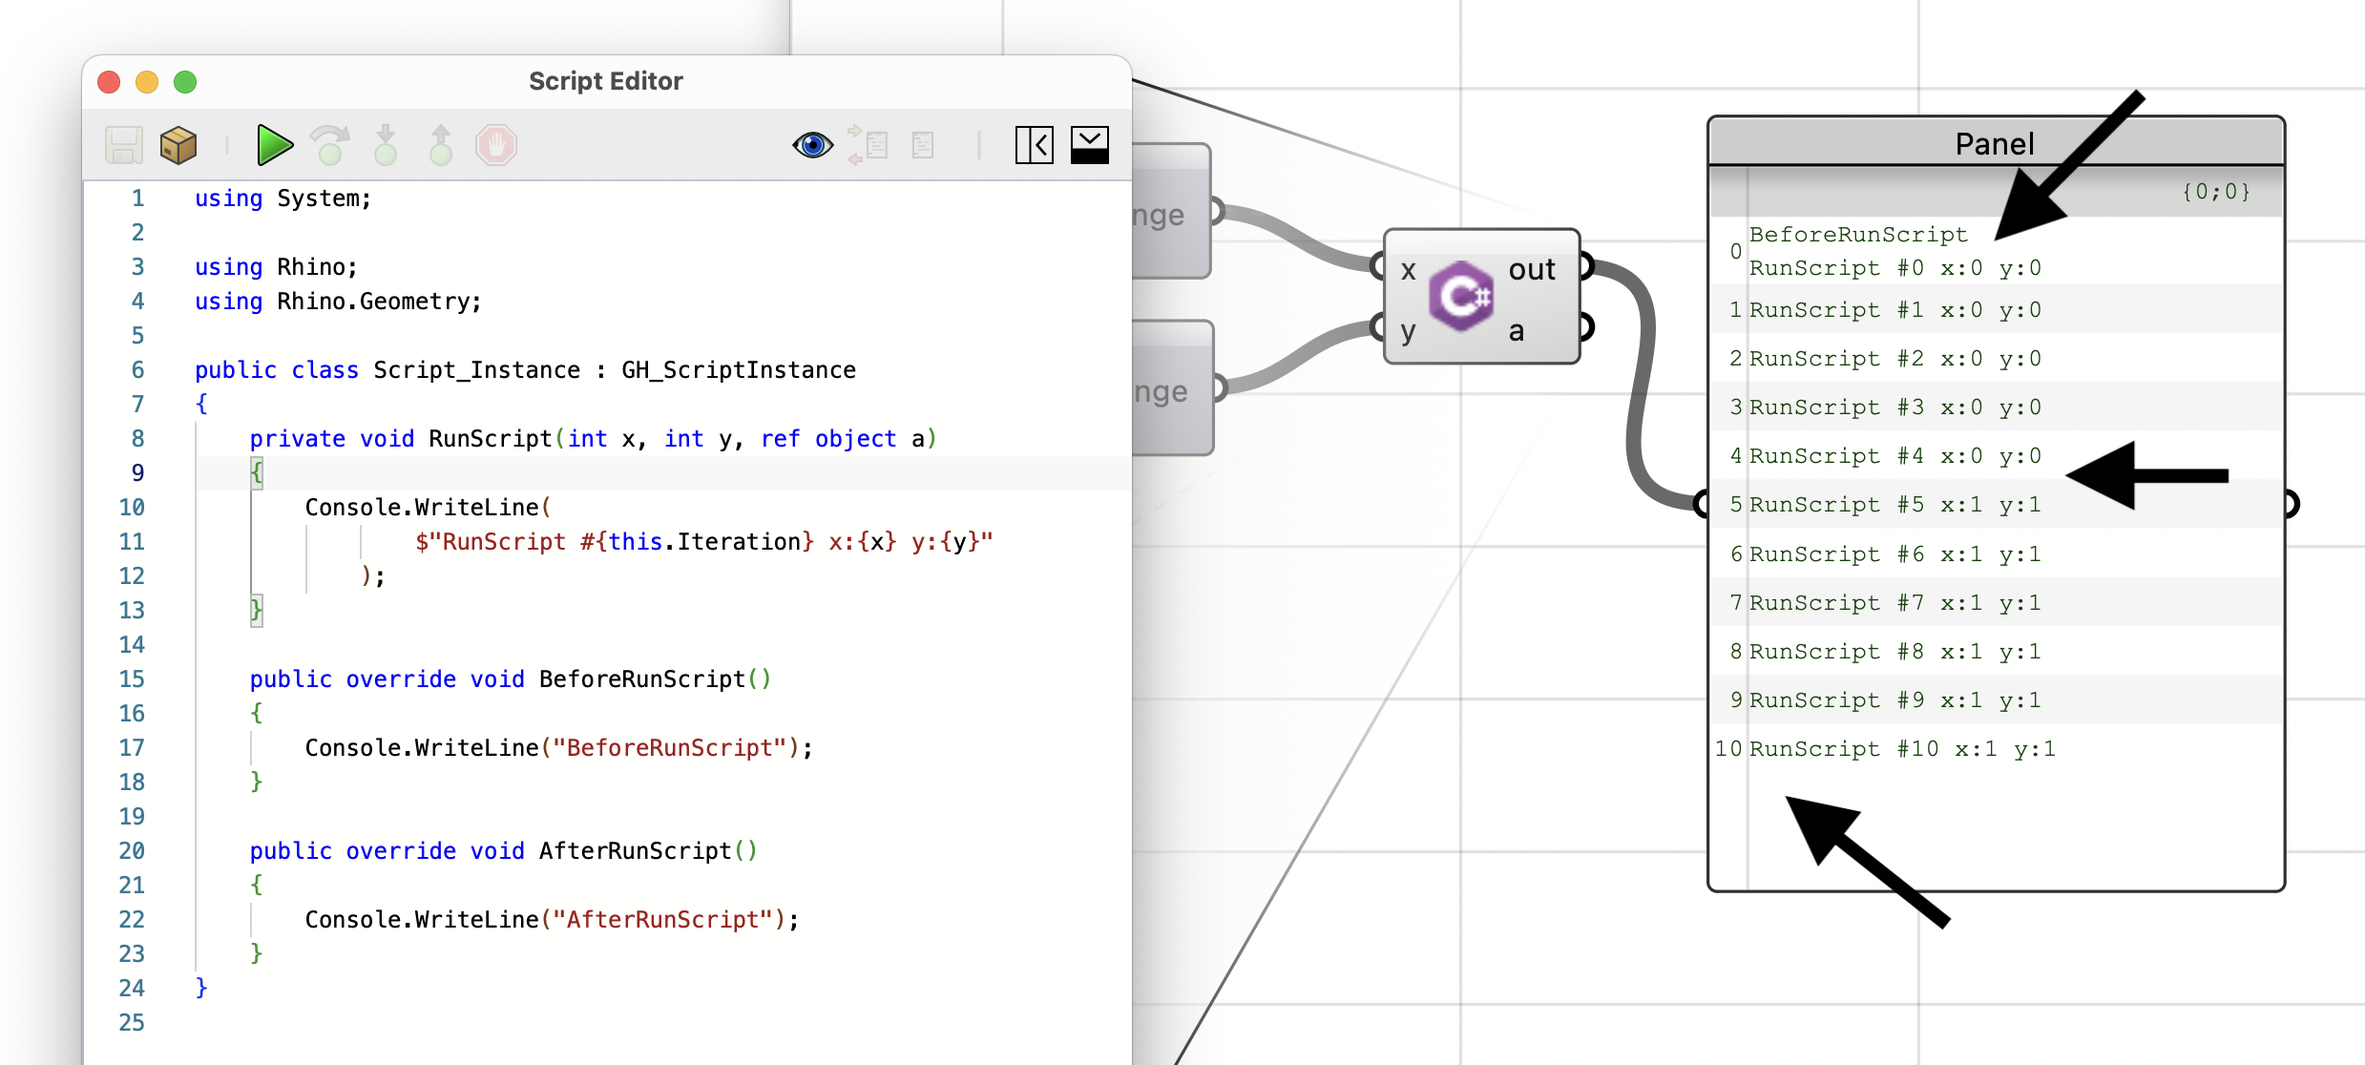
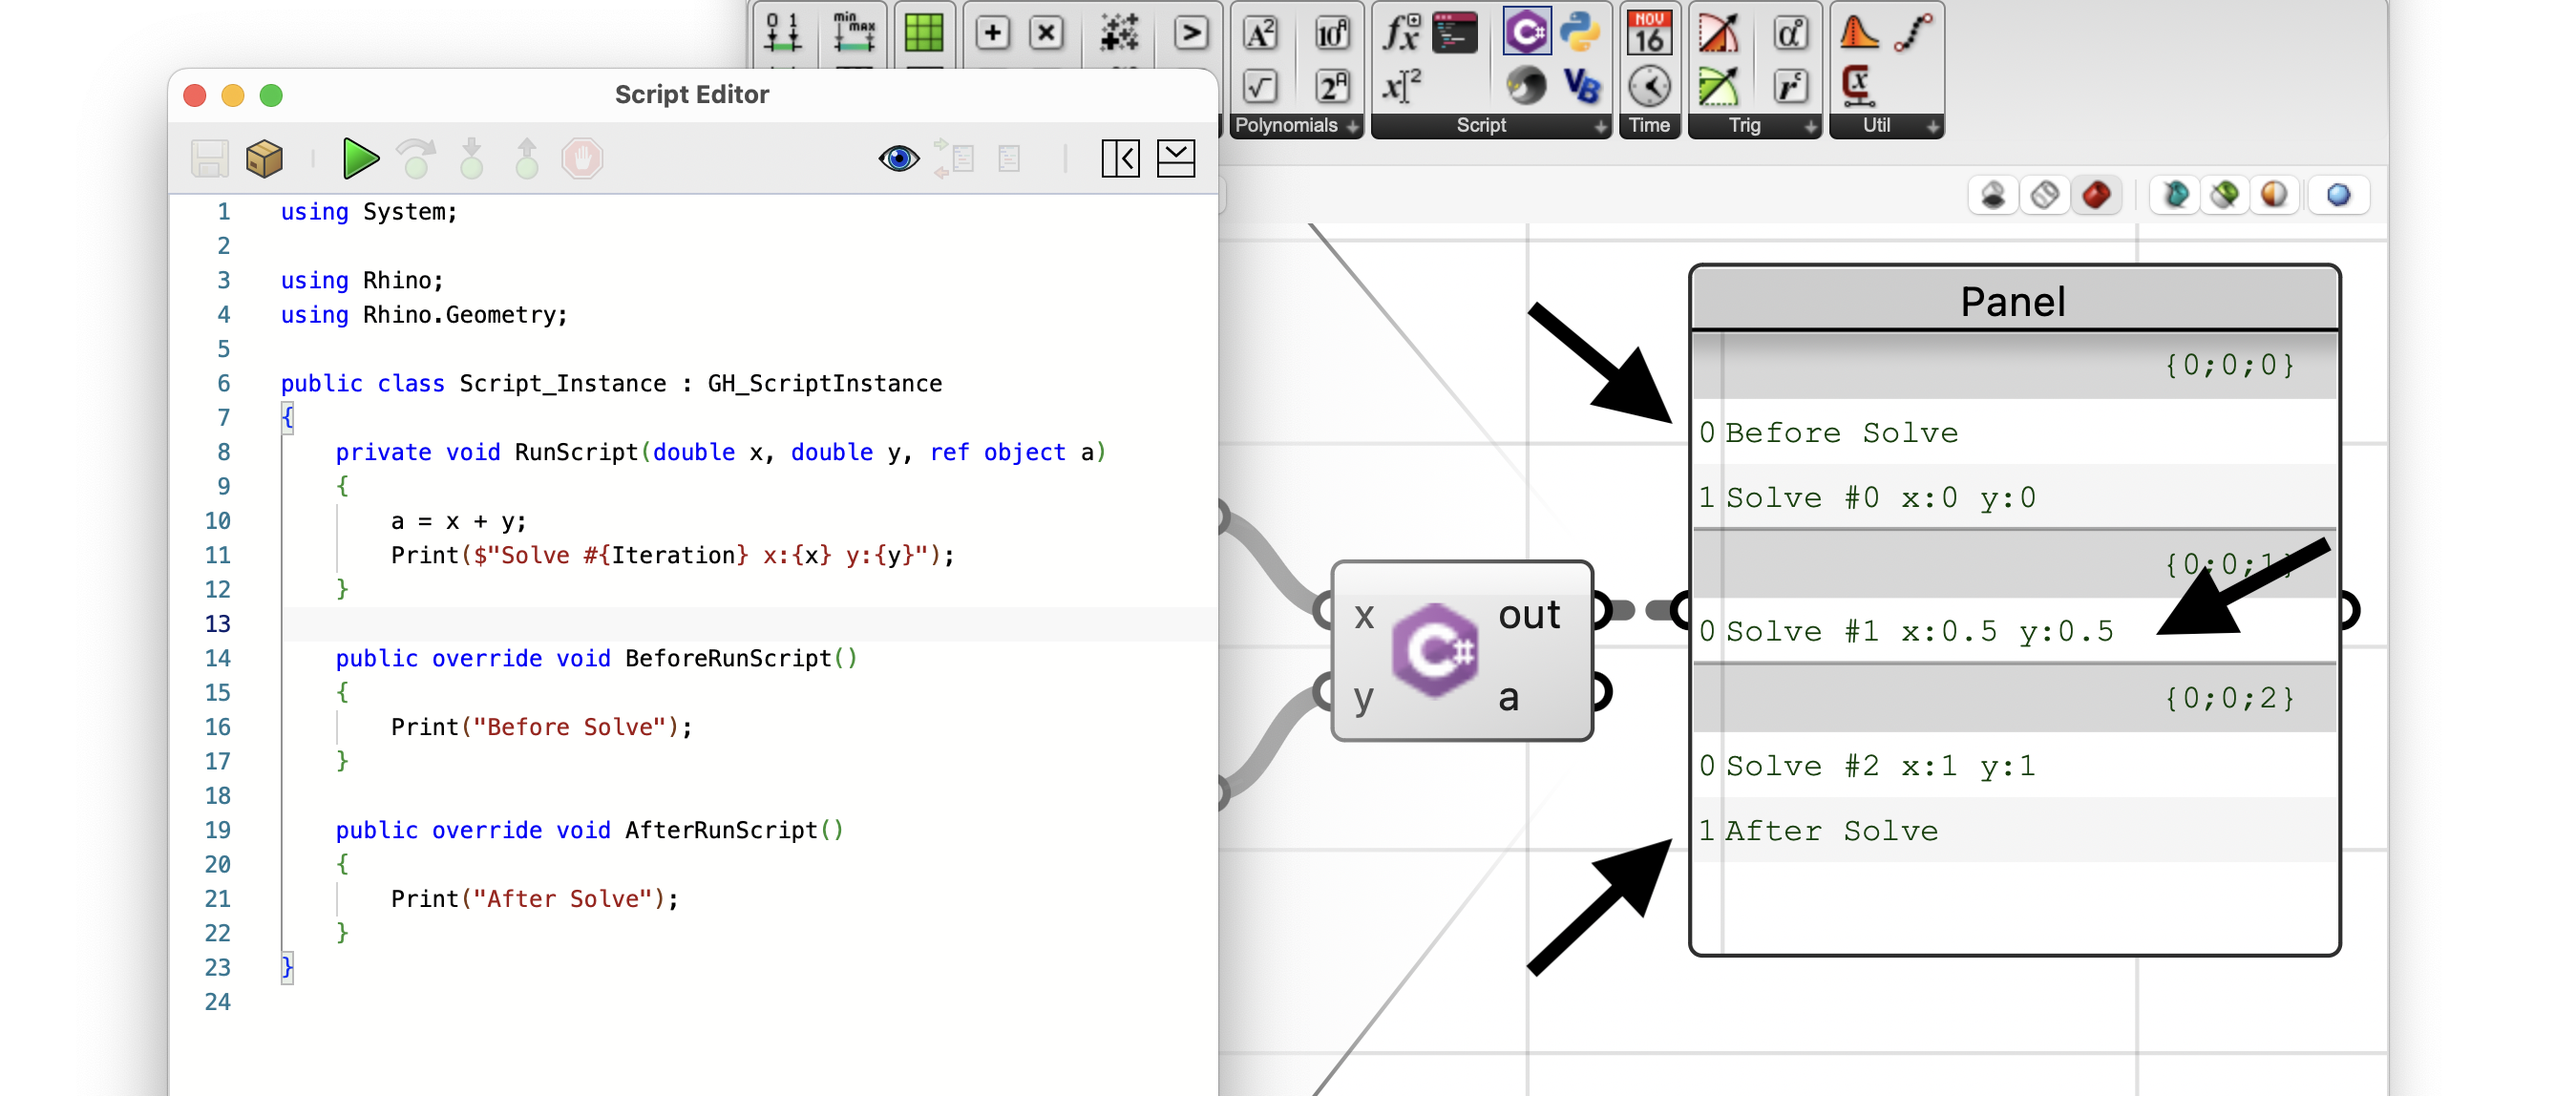
working on C# component guide

diff --git a/content/en/guides/scripting/scripting-gh-csharp/index.md b/content/en/guides/scripting/scripting-gh-csharp/index.md
@@ -59,16 +59,35 @@ Now we can double-click on the component to open a script editor. Note that the 
 
 ### Component Options
 
-At any time, you can right-click on a script component to access a few options that would change how the component behaves. We will discuss all these options in detail below.
+At any time, you can right-click on a script component to access a few options that would change how the component behaves. You know a couple of them that are common with other Grasshopper components like **Preview**, **Enable**, and **Bake**. We will discuss all the options that are specific to this script component in detail below:
 
-![](04.png)
+![](04-a.png)
 
-!!!!!!!!!!!!!!!!! preview enable bake
+#### Script Name
+
+Scripts in Grasshopper are not stored as files. Most often they are embedded inside script components. To name a script, we bascially renamed the component itself. The script tab and breakpoints panel reflect the script name:
+
+![](04-b.png)
 
 ### Modern C#
 
-Lorem ipsum dolor sit amet, consectetur adipiscing elit, sed do eiusmod tempor incididunt ut labore et dolore magna aliqua. Ut enim ad minim veniam, quis nostrud exercitation ullamco laboris nisi ut aliquip ex ea commodo consequat. Duis aute irure dolor in reprehenderit in voluptate velit esse cillum dolore eu fugiat nulla pariatur. Excepteur sint occaecat cupidatat non proident, sunt in culpa qui officia deserunt mollit anim id est laborum.
+In C# script component, we can use a more modern flavour of C# language. It has more features that the older C# used in previous Rhino versions and also supports much simpler Script-Mode that is discussed below.
 
+For example, [String Interpolation](https://learn.microsoft.com/en-us/dotnet/csharp/tutorials/string-interpolation) is a one of these modern features:
+
+```csharp
+int value = 42;
+
+// interpolated strings start with $ before opening the quotation
+// Each pair of {} can contain a valid C# statement. The computed result
+// of that statement is converted to a string (`.ToString()`) and
+// mixed into the interpolated string.
+Console.WriteLine($"Value: {value}");
+```
+
+The script editor shows the version of C# language on the status bar:
+
+![](04-c.png)
 
 ## Inputs, Outputs
 
@@ -76,7 +95,7 @@ The most important concept on a script component is the inputs/outputs. The **Sc
 
 ![](05.png)
 
-By default a script component will have `x` and `y` inputs, and `out` and `a` as outputs. When all parameters on either side are removed, the component will draw a jagged edge on that side. This is completely okay as not all scripts require inputs or produce values on the other output:
+By default a script component will have `x` and `y` inputs, and `out` and `a` as outputs. When all parameters on either side are removed, the component will draw a jagged edge on that side. This is completely okay as not all scripts require inputs or produce values as outputs:
 
 ![](06.png)
 
@@ -84,8 +103,12 @@ Every time you add a parameter, a new temporary name is assigned to it. You can 
 
 ![](07.png)
 
-!!!!!!!!!!!!!!! performance of modifying parameters in C#
 
+{{< call-out "note" "Note" >}}
+C# is a compiled language. Every time you are changing the combination of input and output parameters, or their *Type Hints* you C# script is updated and must be recompiled. The component will show any compile or execute error messages that might occur on the message bubbles.
+
+A short compile delay is expected when you are making parameter changes. If you have a very large script that takes a while to compile, you can disable the Grasshopper solver when making many parameter changes.
+{{< /call-out >}}
 
 ### Reserved Names
 
@@ -205,6 +228,11 @@ The `RunScript` method signature is going to include all the component inputs an
 
 You can write the logic of your component inside the `RunScript` block, take the input values, compute, and set the outputs. As with any other Grasshopper component, the `RunScript` method might be call multiple times based on the pairing of input data.
 
+
+### Changing RunScript Signature
+
+!!!!!!!!!!!!!!!
+
 ### Before, After Solve Overrides
 
 You can easily add the `BeforeRunScript` and `AfterRunScript` methods to your `Script_Instance` implementation by:
@@ -227,13 +255,13 @@ Each one of these methods is executed only once, per one full execution of this 
 
 ![](sdkmode-03.png)
 
-There are two range components included in this example to provide inputs to the script component. Each range component outputs 11 items, and their associated input parameter on the script component has a `double` *Type Hint* assigned to it. This means the `RunScript` method is going to be executed 11 times for 11 pairs of `x` and `y` from the two range components.
+There are two range components included in this example to provide inputs to the script component. Each range component outputs 3 items, and their associated input parameter on the script component has a `double` *Type Hint* assigned to it. This means the `RunScript` method is going to be executed 3 times for 3 pairs of `x` and `y`.
 
-Notice that the text *BeforeRunScript* is printed on the same output item as *RunScript #0* which is the first iteration of solving inputs. This is because `BeforeRunScript` runs before the script component is allowed to set values on its output parameters and therefore any statements printed to the console are going to be captured by the first iteration of `RunScript` that comes right after. It is important to understand that although `out` is a special parameter, it is still considered an output parameter on the component and its value should only be set once per every `RunScript` execution.
+Notice that the text *Before Solve* is printed on the same output item as *Solve #0* which is the first iteration of solving inputs. This is because `BeforeRunScript` runs before the script component is allowed to set values on its output parameters and therefore any output printed to the console are going to be captured by the first iteration of `RunScript` that runs right after.
 
 All other iterations of `RunScript` will continue after the first.
 
-The `AfterRunScript` is executed after the component is solved and has already sets its output values, therefore any messages that are printed to the console during this method, will not find their way to the `out` parameter. The last value of `out` parameter was set on the last run of `RunScript` method.
+The `AfterRunScript` is executed after all the iterations of `RunScript` have completed execution. Notice that the text *After Solve* is captured and appended to the last message on the `out` parameter which belongs to the last iteration of `RunScript` that ran right before.
 
 ### Preview Overrides
 
@@ -253,74 +281,76 @@ Notice there is also a `BoundingBox` property implementation that is added as we
 
 ### Draw Calls
 
+---
+
 ## Script-Mode
 
-Lorem ipsum dolor sit amet, consectetur adipiscing elit, sed do eiusmod tempor incididunt ut labore et dolore magna aliqua. Ut enim ad minim veniam, quis nostrud exercitation ullamco laboris nisi ut aliquip ex ea commodo consequat. Duis aute irure dolor in reprehenderit in voluptate velit esse cillum dolore eu fugiat nulla pariatur. Excepteur sint occaecat cupidatat non proident, sunt in culpa qui officia deserunt mollit anim id est laborum.
+---
 
 ## Debugging Scripts
 
-Lorem ipsum dolor sit amet, consectetur adipiscing elit, sed do eiusmod tempor incididunt ut labore et dolore magna aliqua. Ut enim ad minim veniam, quis nostrud exercitation ullamco laboris nisi ut aliquip ex ea commodo consequat. Duis aute irure dolor in reprehenderit in voluptate velit esse cillum dolore eu fugiat nulla pariatur. Excepteur sint occaecat cupidatat non proident, sunt in culpa qui officia deserunt mollit anim id est laborum.
+---
 
 ## NuGet Packages
 
-Lorem ipsum dolor sit amet, consectetur adipiscing elit, sed do eiusmod tempor incididunt ut labore et dolore magna aliqua. Ut enim ad minim veniam, quis nostrud exercitation ullamco laboris nisi ut aliquip ex ea commodo consequat. Duis aute irure dolor in reprehenderit in voluptate velit esse cillum dolore eu fugiat nulla pariatur. Excepteur sint occaecat cupidatat non proident, sunt in culpa qui officia deserunt mollit anim id est laborum.
+---
 
 ### Assembly References
 
 - absolute/relative/loaded
-Lorem ipsum dolor sit amet, consectetur adipiscing elit, sed do eiusmod tempor incididunt ut labore et dolore magna aliqua. Ut enim ad minim veniam, quis nostrud exercitation ullamco laboris nisi ut aliquip ex ea commodo consequat. Duis aute irure dolor in reprehenderit in voluptate velit esse cillum dolore eu fugiat nulla pariatur. Excepteur sint occaecat cupidatat non proident, sunt in culpa qui officia deserunt mollit anim id est laborum.
+---
 
 ## Customizing Editor
 
-Lorem ipsum dolor sit amet, consectetur adipiscing elit, sed do eiusmod tempor incididunt ut labore et dolore magna aliqua. Ut enim ad minim veniam, quis nostrud exercitation ullamco laboris nisi ut aliquip ex ea commodo consequat. Duis aute irure dolor in reprehenderit in voluptate velit esse cillum dolore eu fugiat nulla pariatur. Excepteur sint occaecat cupidatat non proident, sunt in culpa qui officia deserunt mollit anim id est laborum.
+---
 
 ### Close On Save
 
-Lorem ipsum dolor sit amet, consectetur adipiscing elit, sed do eiusmod tempor incididunt ut labore et dolore magna aliqua. Ut enim ad minim veniam, quis nostrud exercitation ullamco laboris nisi ut aliquip ex ea commodo consequat. Duis aute irure dolor in reprehenderit in voluptate velit esse cillum dolore eu fugiat nulla pariatur. Excepteur sint occaecat cupidatat non proident, sunt in culpa qui officia deserunt mollit anim id est laborum.
+---
 
 ### Layout Options
 
-Lorem ipsum dolor sit amet, consectetur adipiscing elit, sed do eiusmod tempor incididunt ut labore et dolore magna aliqua. Ut enim ad minim veniam, quis nostrud exercitation ullamco laboris nisi ut aliquip ex ea commodo consequat. Duis aute irure dolor in reprehenderit in voluptate velit esse cillum dolore eu fugiat nulla pariatur. Excepteur sint occaecat cupidatat non proident, sunt in culpa qui officia deserunt mollit anim id est laborum.
+---
 
 ## Publishing Script
 
-Lorem ipsum dolor sit amet, consectetur adipiscing elit, sed do eiusmod tempor incididunt ut labore et dolore magna aliqua. Ut enim ad minim veniam, quis nostrud exercitation ullamco laboris nisi ut aliquip ex ea commodo consequat. Duis aute irure dolor in reprehenderit in voluptate velit esse cillum dolore eu fugiat nulla pariatur. Excepteur sint occaecat cupidatat non proident, sunt in culpa qui officia deserunt mollit anim id est laborum.
+---
 
 ## Template Scripts
 
-Lorem ipsum dolor sit amet, consectetur adipiscing elit, sed do eiusmod tempor incididunt ut labore et dolore magna aliqua. Ut enim ad minim veniam, quis nostrud exercitation ullamco laboris nisi ut aliquip ex ea commodo consequat. Duis aute irure dolor in reprehenderit in voluptate velit esse cillum dolore eu fugiat nulla pariatur. Excepteur sint occaecat cupidatat non proident, sunt in culpa qui officia deserunt mollit anim id est laborum.
+---
 
 ### Resetting Icon
 
-Lorem ipsum dolor sit amet, consectetur adipiscing elit, sed do eiusmod tempor incididunt ut labore et dolore magna aliqua. Ut enim ad minim veniam, quis nostrud exercitation ullamco laboris nisi ut aliquip ex ea commodo consequat. Duis aute irure dolor in reprehenderit in voluptate velit esse cillum dolore eu fugiat nulla pariatur. Excepteur sint occaecat cupidatat non proident, sunt in culpa qui officia deserunt mollit anim id est laborum.
+---
 
 ## Advanced
 
-Lorem ipsum dolor sit amet, consectetur adipiscing elit, sed do eiusmod tempor incididunt ut labore et dolore magna aliqua. Ut enim ad minim veniam, quis nostrud exercitation ullamco laboris nisi ut aliquip ex ea commodo consequat. Duis aute irure dolor in reprehenderit in voluptate velit esse cillum dolore eu fugiat nulla pariatur. Excepteur sint occaecat cupidatat non proident, sunt in culpa qui officia deserunt mollit anim id est laborum.
+---
 
 ### Special Inputs
 
 - script
 - library
-Lorem ipsum dolor sit amet, consectetur adipiscing elit, sed do eiusmod tempor incididunt ut labore et dolore magna aliqua. Ut enim ad minim veniam, quis nostrud exercitation ullamco laboris nisi ut aliquip ex ea commodo consequat. Duis aute irure dolor in reprehenderit in voluptate velit esse cillum dolore eu fugiat nulla pariatur. Excepteur sint occaecat cupidatat non proident, sunt in culpa qui officia deserunt mollit anim id est laborum.
+---
 
 ### Special Outputs
 
 - script
-Lorem ipsum dolor sit amet, consectetur adipiscing elit, sed do eiusmod tempor incididunt ut labore et dolore magna aliqua. Ut enim ad minim veniam, quis nostrud exercitation ullamco laboris nisi ut aliquip ex ea commodo consequat. Duis aute irure dolor in reprehenderit in voluptate velit esse cillum dolore eu fugiat nulla pariatur. Excepteur sint occaecat cupidatat non proident, sunt in culpa qui officia deserunt mollit anim id est laborum.
+---
 
 ### Value-Type Outputs
 
-Lorem ipsum dolor sit amet, consectetur adipiscing elit, sed do eiusmod tempor incididunt ut labore et dolore magna aliqua. Ut enim ad minim veniam, quis nostrud exercitation ullamco laboris nisi ut aliquip ex ea commodo consequat. Duis aute irure dolor in reprehenderit in voluptate velit esse cillum dolore eu fugiat nulla pariatur. Excepteur sint occaecat cupidatat non proident, sunt in culpa qui officia deserunt mollit anim id est laborum.
+---
 
 ### Output Previews
 
-Lorem ipsum dolor sit amet, consectetur adipiscing elit, sed do eiusmod tempor incididunt ut labore et dolore magna aliqua. Ut enim ad minim veniam, quis nostrud exercitation ullamco laboris nisi ut aliquip ex ea commodo consequat. Duis aute irure dolor in reprehenderit in voluptate velit esse cillum dolore eu fugiat nulla pariatur. Excepteur sint occaecat cupidatat non proident, sunt in culpa qui officia deserunt mollit anim id est laborum.
+---
 
 ### Exporting Script
 
-Lorem ipsum dolor sit amet, consectetur adipiscing elit, sed do eiusmod tempor incididunt ut labore et dolore magna aliqua. Ut enim ad minim veniam, quis nostrud exercitation ullamco laboris nisi ut aliquip ex ea commodo consequat. Duis aute irure dolor in reprehenderit in voluptate velit esse cillum dolore eu fugiat nulla pariatur. Excepteur sint occaecat cupidatat non proident, sunt in culpa qui officia deserunt mollit anim id est laborum.
+---
 
 ### Discard Caches
 
-Lorem ipsum dolor sit amet, consectetur adipiscing elit, sed do eiusmod tempor incididunt ut labore et dolore magna aliqua. Ut enim ad minim veniam, quis nostrud exercitation ullamco laboris nisi ut aliquip ex ea commodo consequat. Duis aute irure dolor in reprehenderit in voluptate velit esse cillum dolore eu fugiat nulla pariatur. Excepteur sint occaecat cupidatat non proident, sunt in culpa qui officia deserunt mollit anim id est laborum.
+---
